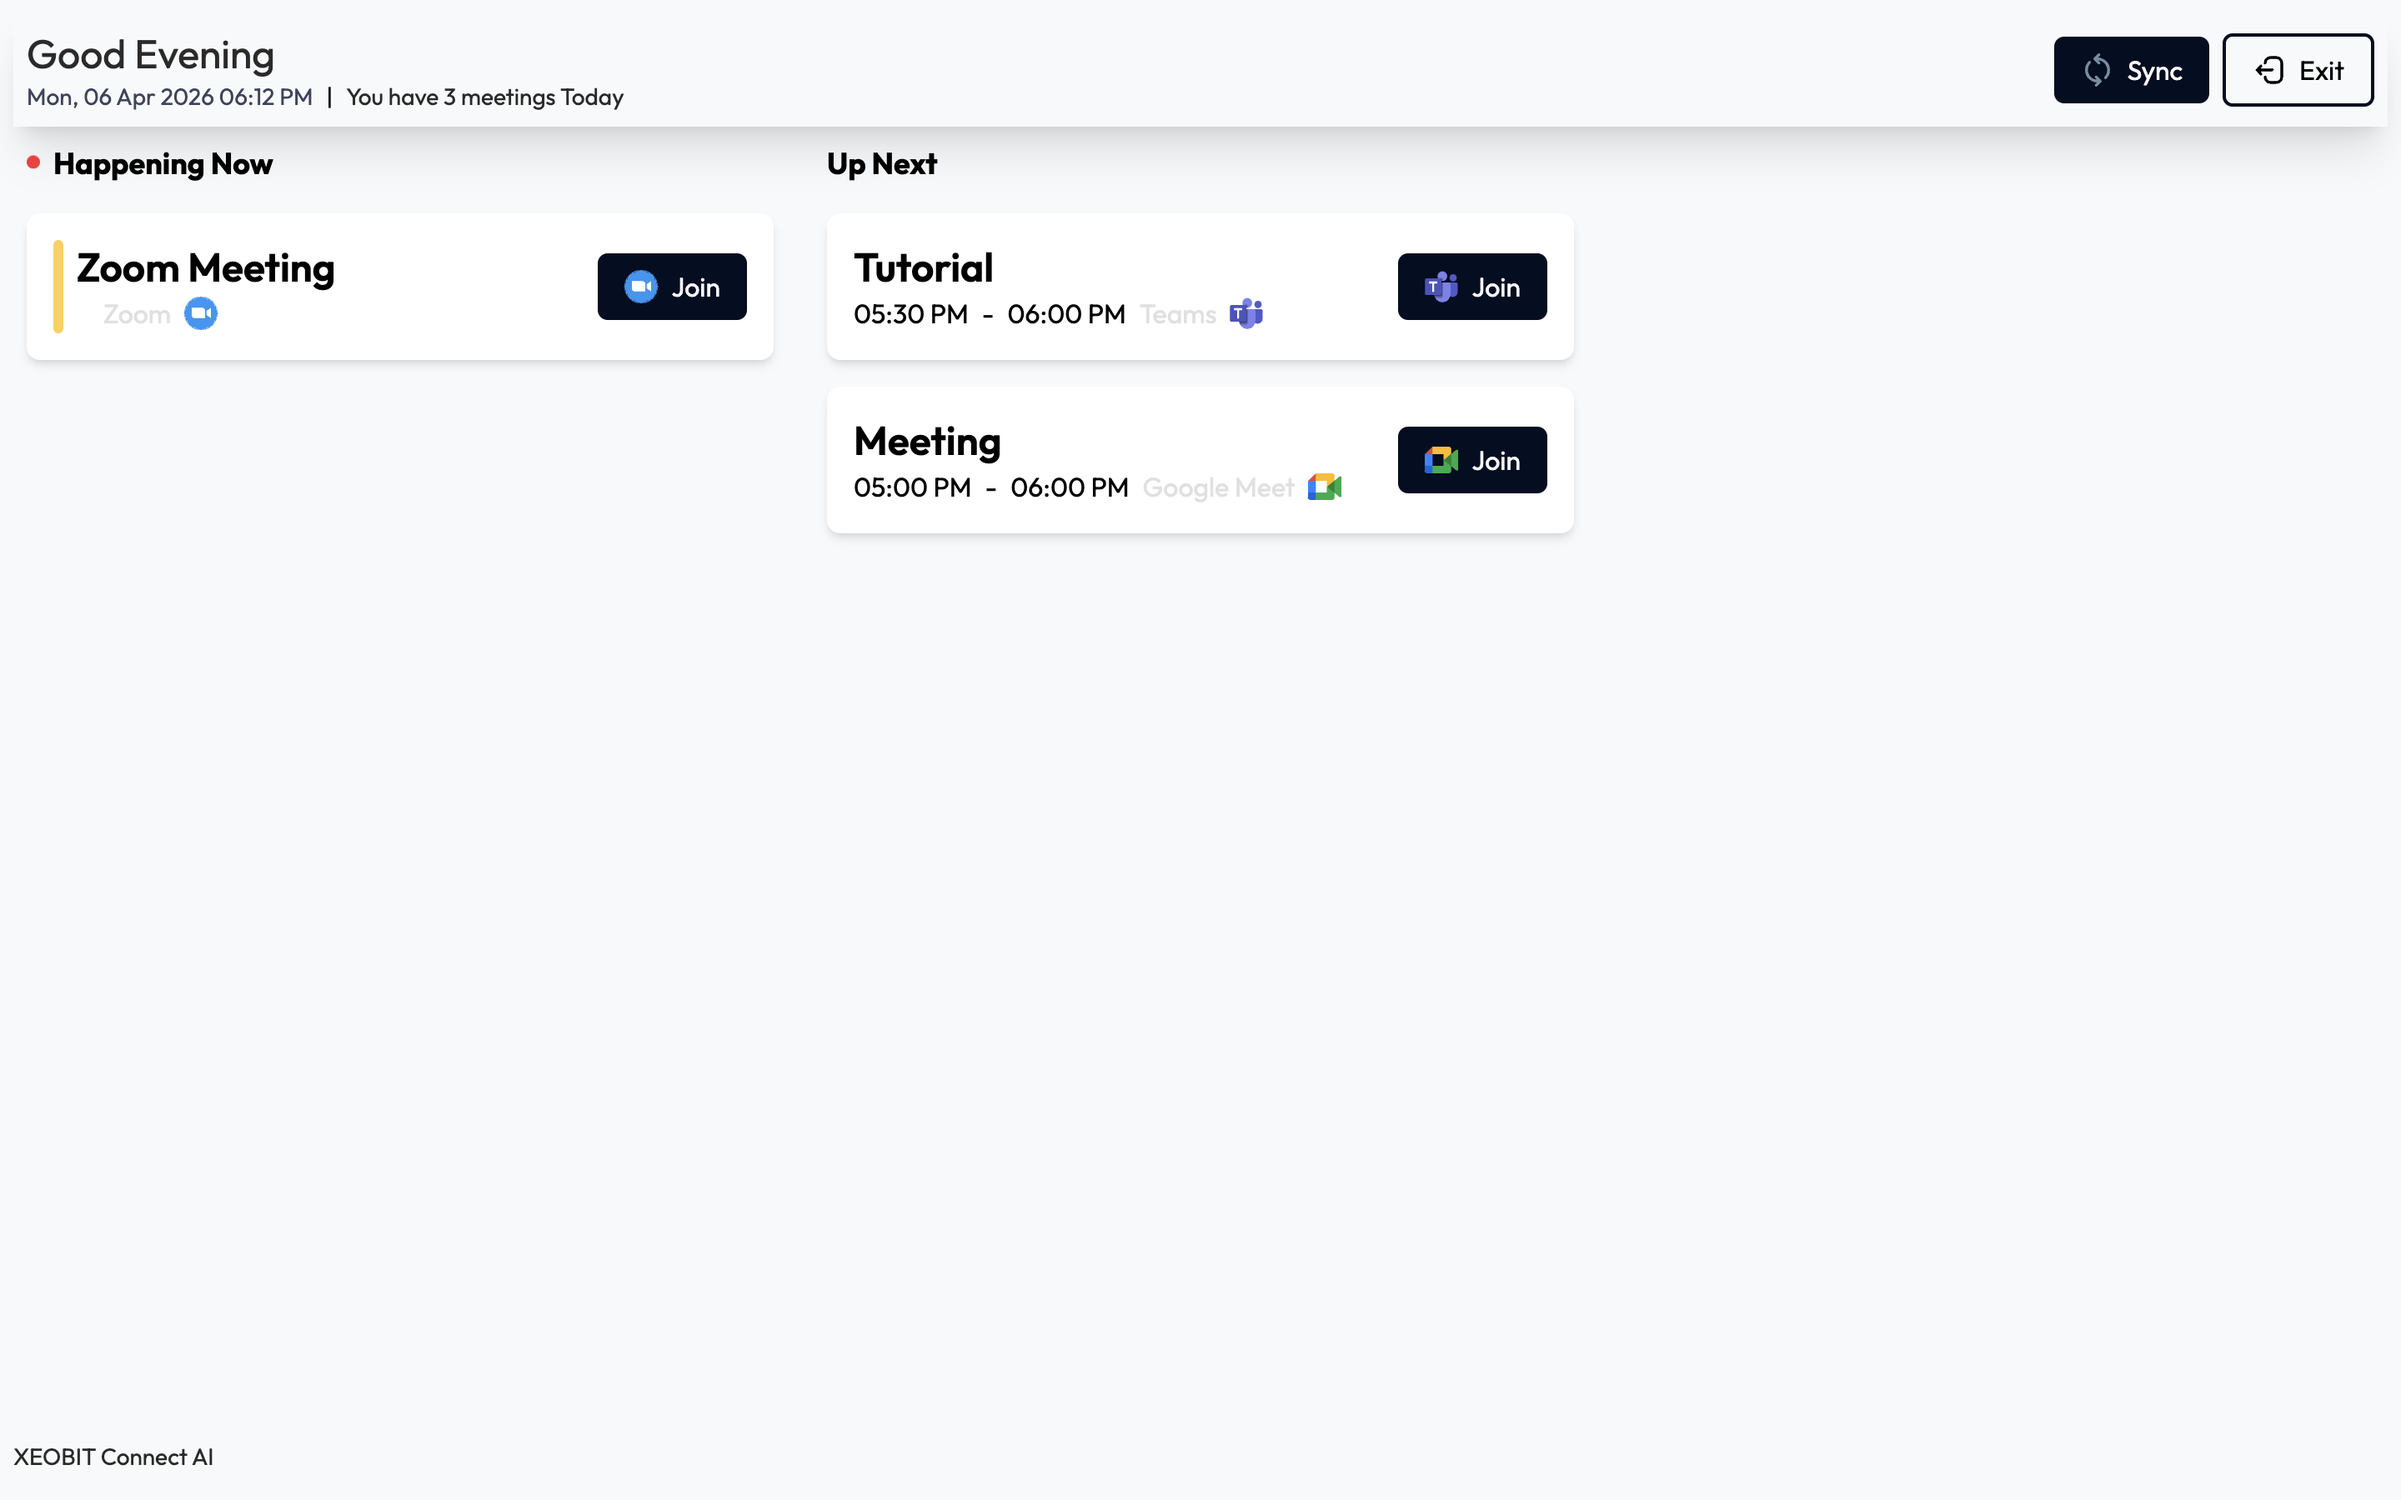
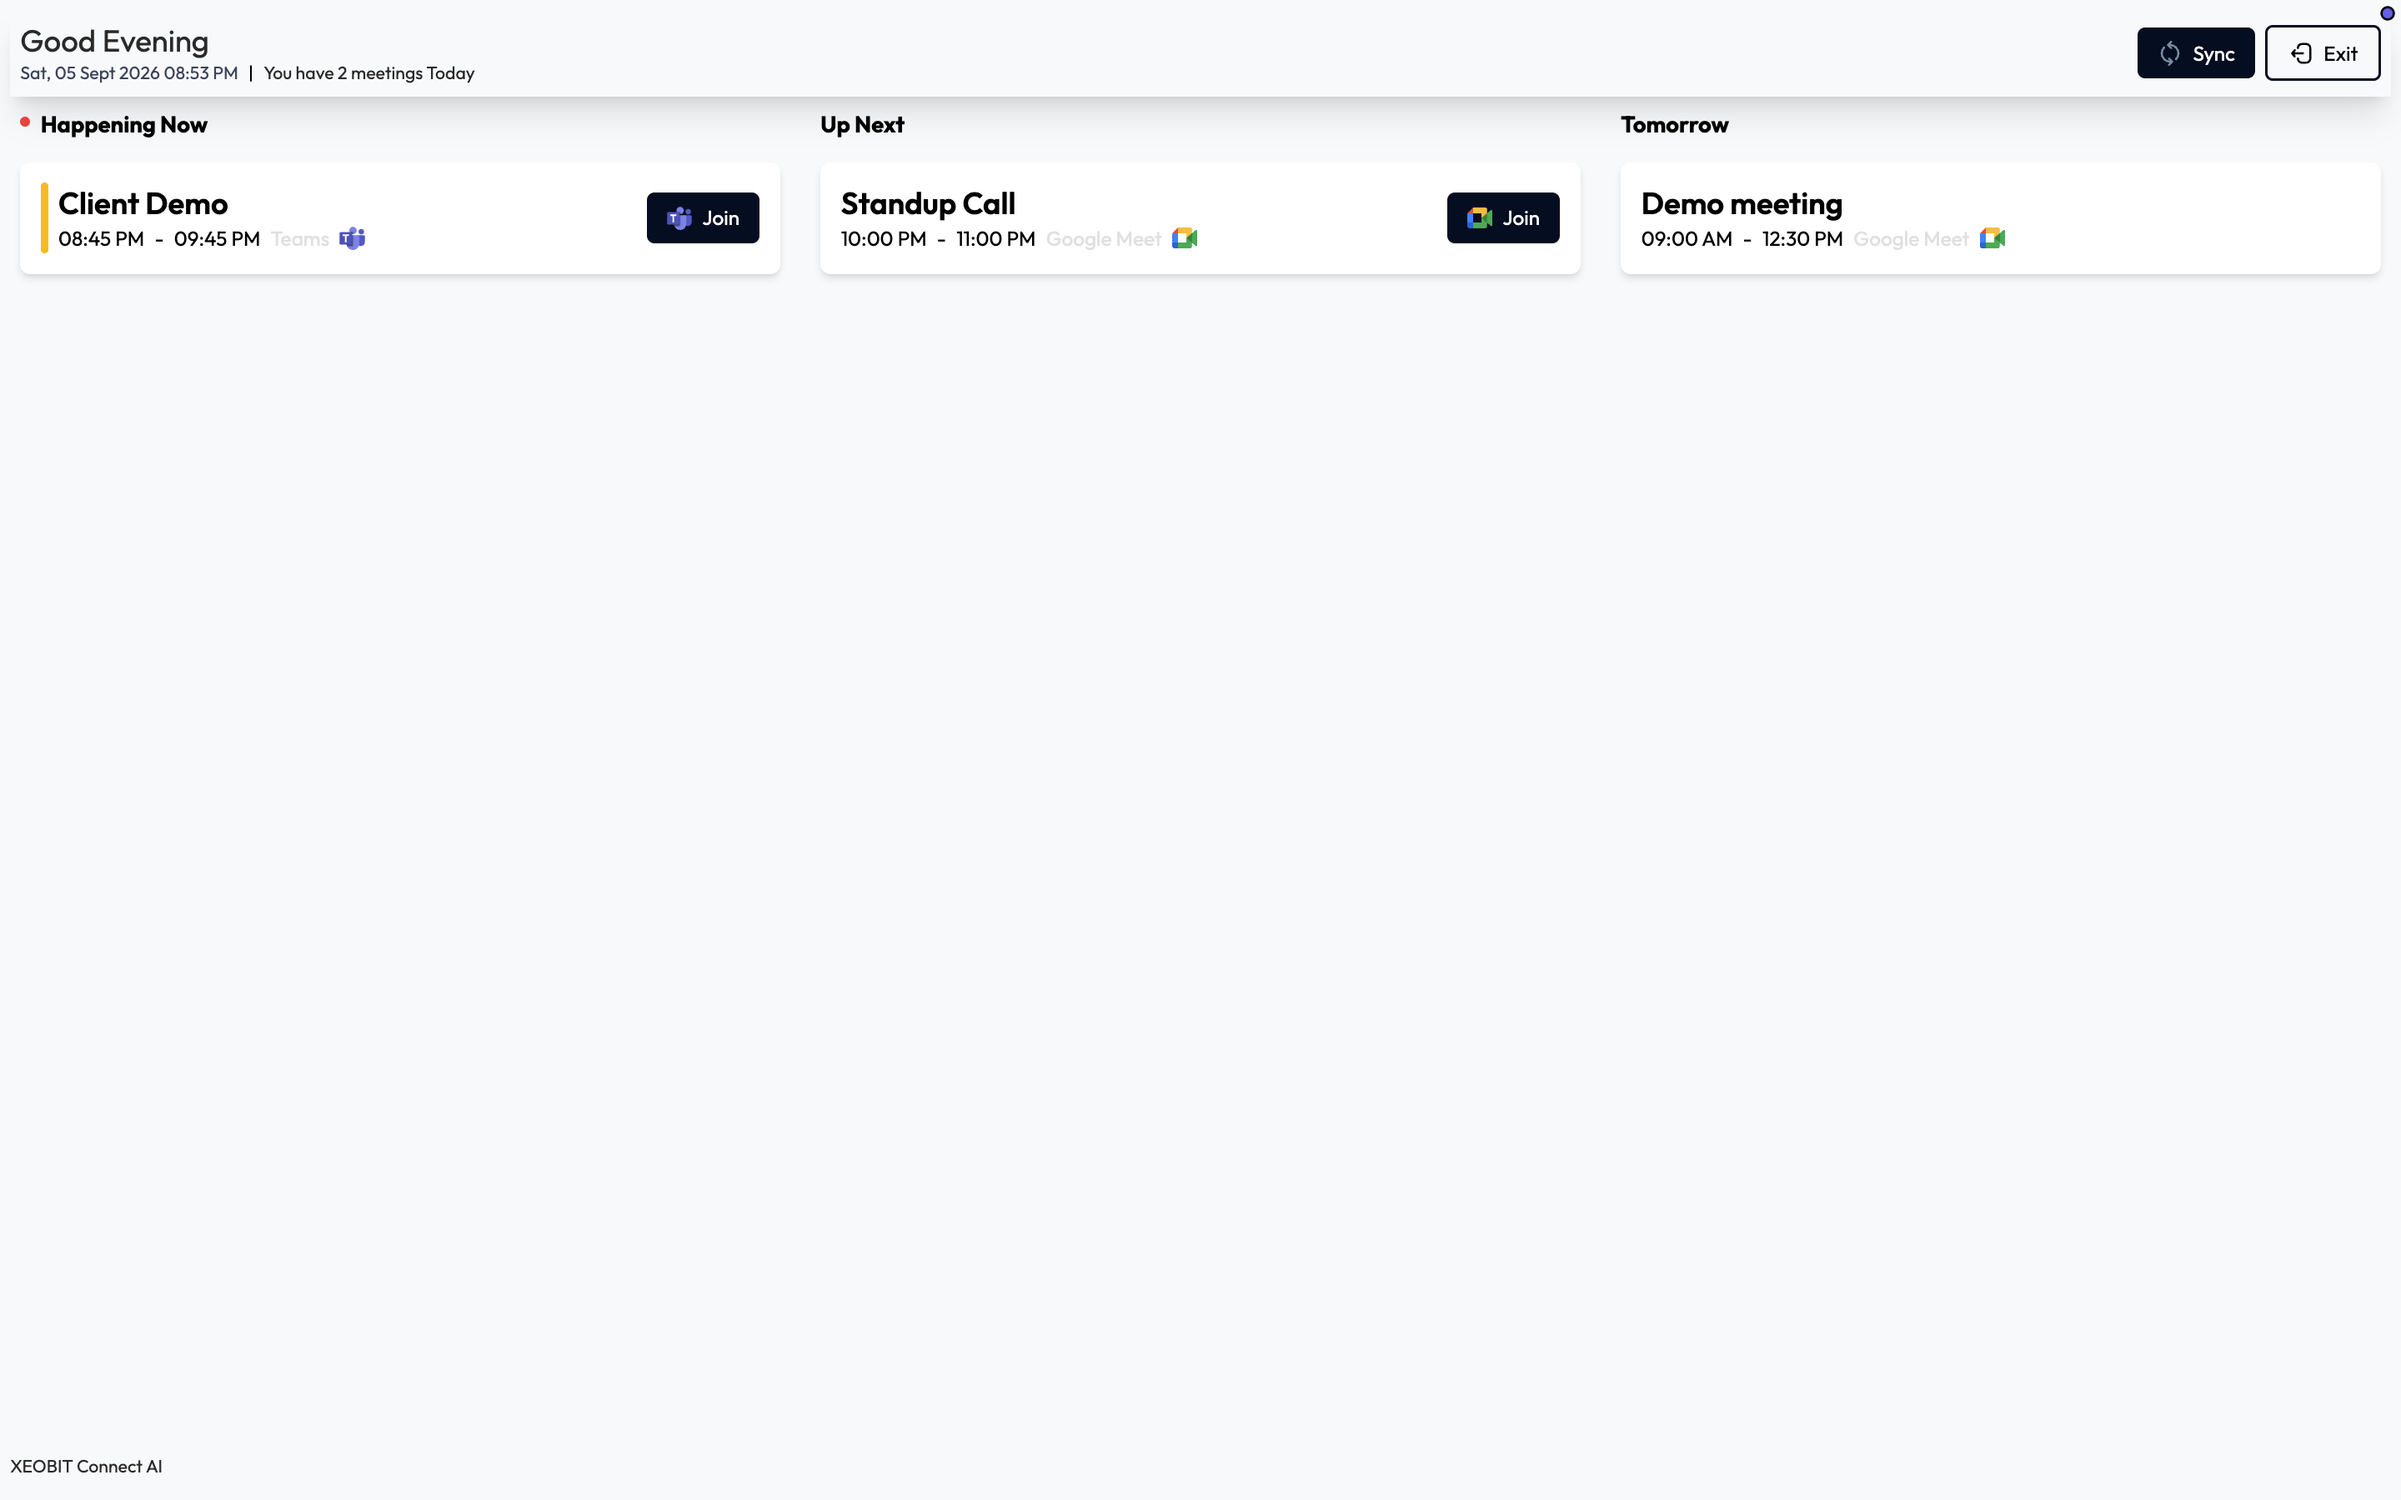
Minor fixes

diff --git a/src/pages/Home.jsx b/src/pages/Home.jsx
@@ -30,17 +30,17 @@ function Section({ children, className = '' }) {
 }
 
 const FEATURES = [
-  { icon: '📥', title: 'Auto-detected invites', desc: 'Connects to Gmail and automatically pulls every meeting invite — no manual entry, no missed events.' },
+  { icon: '📥', title: 'Auto-detected invites', desc: 'Connects to Google Calendar and automatically pulls every meeting invite — no manual entry, no missed events.' },
   { icon: '🗂', title: 'Unified timeline', desc: 'Today, this week, upcoming — all in one dashboard. Filter by date, platform, or organiser in seconds.' },
-  { icon: '🔒', title: 'Read-only & private', desc: 'XEOBIT only reads your Gmail. It never modifies, stores, or shares your email data with anyone.' },
+  { icon: '🔒', title: 'Read-only & private', desc: 'XEOBIT only reads your Google Calendar. It never modifies, stores, or shares your email data with anyone.' },
   { icon: '⚡', title: 'Instant overview', desc: 'Open the app and know your full day in under five seconds. No digging through threads.' },
   { icon: '🖥', title: 'Desktop-native', desc: 'A lightweight desktop app — always accessible, no tab hunting, no browser fatigue.' },
-  { icon: '🔗', title: 'Any platform', desc: 'Google Meet, Zoom, Teams — XEOBIT detects meeting links across all platforms automatically.' },
+  { icon: '🔗', title: 'Any platform', desc: 'Google Meet, Teams, Webex — XEOBIT detects meeting links across all platforms automatically.' },
 ]
 
 const STEPS = [
-  { num: '1', title: 'Connect your Gmail', desc: 'Sign in with Google — a one-time OAuth flow. XEOBIT only requests read-only access to your inbox.' },
-  { num: '2', title: 'XEOBIT scans your inbox', desc: 'The app automatically identifies and organises all meeting invites, extracting times, links, and attendees.' },
+  { num: '1', title: 'Connect your Gmail', desc: 'Sign in with Google — a one-time OAuth flow. XEOBIT only requests read-only access to your calendar.' },
+  { num: '2', title: 'XEOBIT scans your calendar', desc: 'The app automatically identifies and organises all meeting invites, extracting times, links, and attendees.' },
   { num: '3', title: 'See your day clearly', desc: 'Your unified meeting dashboard is ready. Always up to date with your latest invites.' },
 ]
 
@@ -71,7 +71,7 @@ export default function Home() {
               <em>one clear view.</em>
             </h1>
             <p className={styles.heroSub}>
-              XEOBIT pulls every meeting invite from your Gmail and surfaces
+              XEOBIT pulls every meeting invite from your Google Calendar and surfaces
               them in a clean, unified dashboard — so nothing slips through the
               cracks.
             </p>

diff --git a/src/pages/Product.jsx b/src/pages/Product.jsx
@@ -112,7 +112,7 @@ useEffect(() => {
             <div className={styles.signInText}>
               <span className={styles.label}>Getting started</span>
               <h2>One click to connect</h2>
-              <p>Sign in with your Google account and XEOBIT immediately begins scanning your inbox for meeting invites. The whole process takes under a minute.</p>
+              <p>Sign in with your Google account and XEOBIT immediately begins scanning your Calendar for meeting invites. The whole process takes under a minute.</p>
               <ul className={styles.signInPoints}>
                 <li>
                   <span className={styles.tick}>✓</span>
